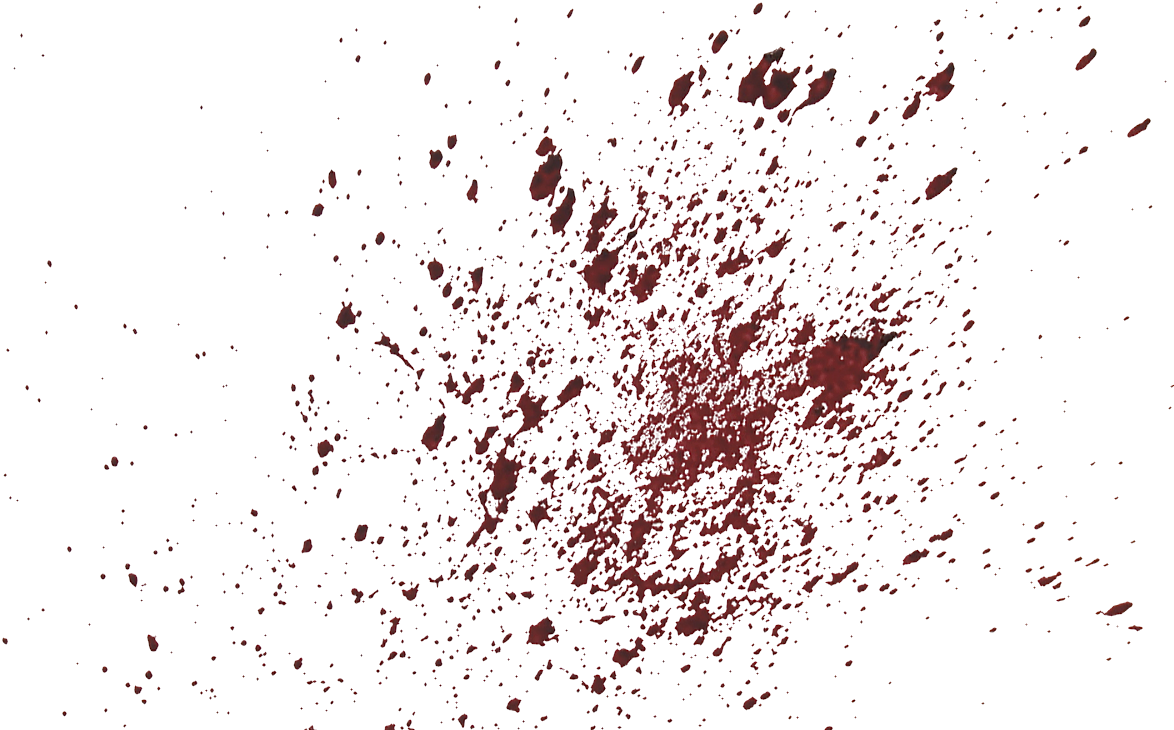
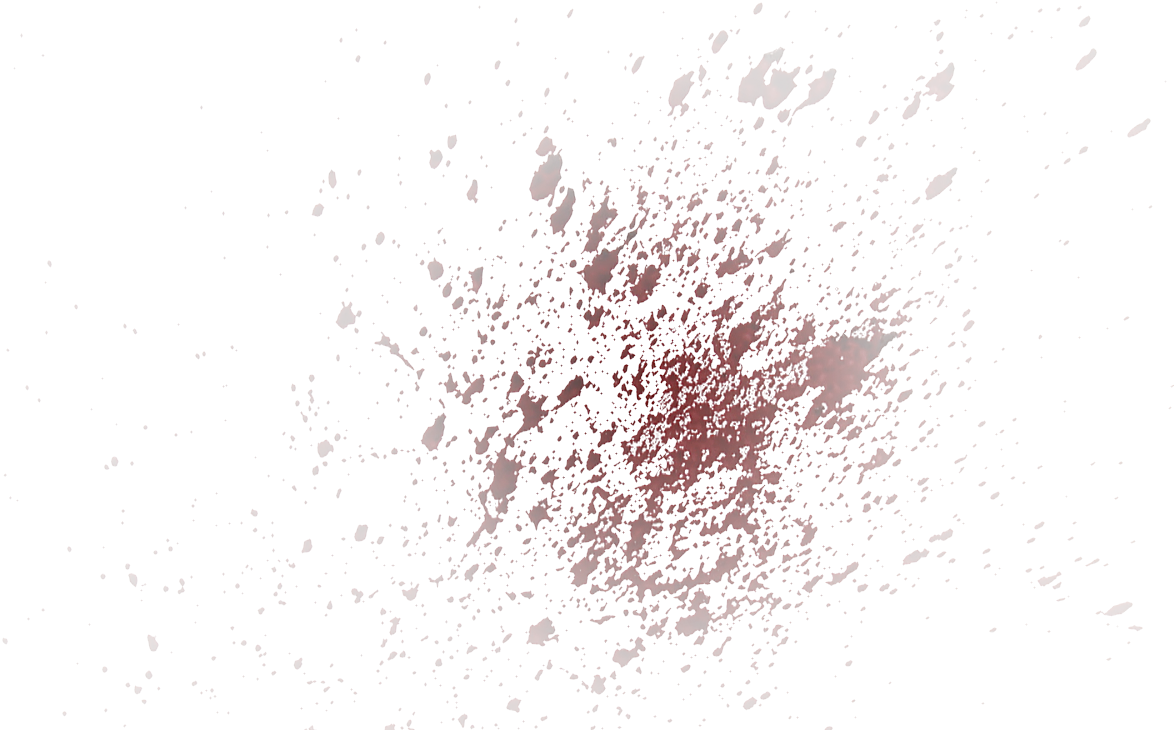
Improved 'psychopathic' fanfics effects to be nicer on any device

diff --git a/src/components/effects/psychopathic-items/EffectBloodSplatter.vue b/src/components/effects/psychopathic-items/EffectBloodSplatter.vue
@@ -16,12 +16,6 @@ const imageUrl = ref(
   new URL("@/assets/images/psychopathic/blood.png", import.meta.url).href
 );
 
-const generateRandomNumber = (min: number, max: number) =>
-  Math.random() * (max - min) + min;
-
-const generateRandomIntNumber = (min: number, max: number) =>
-  Math.floor(generateRandomNumber(min, max + 1));
-
 const generateKeyframes = (animationName: string, isReversed: boolean) => {
   const keyframes = `
         @keyframes ${animationName} {
@@ -53,10 +47,9 @@ let leftSplatterStyleElement: HTMLStyleElement | null;
 let rightSplatterStyleElement: HTMLStyleElement | null;
 
 const leftSplatterStyles = computed(() => {
-  const bottomOffset =
-    footerStore.footerHeight + generateRandomIntNumber(0, 20);
+  const bottomOffset = footerStore.footerHeight;
 
-  const animationDelay = generateRandomNumber(50, 54);
+  const animationDelay = 50.5;
   const animationName = `blood-splatter-fade-${Math.random().toString(36).substring(2, 15)}`;
 
   if (leftSplatterStyleElement) {
@@ -74,10 +67,9 @@ const leftSplatterStyles = computed(() => {
 });
 
 const rightSplatterStyles = computed(() => {
-  const bottomOffset =
-    footerStore.footerHeight + generateRandomIntNumber(0, 20);
+  const bottomOffset = footerStore.footerHeight;
 
-  const animationDelay = generateRandomNumber(56, 60);
+  const animationDelay = 58;
   const animationName = `blood-splatter-fade-reverse-${Math.random().toString(36).substring(2, 15)}`;
 
   if (rightSplatterStyleElement) {
@@ -109,12 +101,12 @@ onUnmounted(() => {
 .blood-splatter {
   position: fixed;
   z-index: 2;
-  width: 50%;
-  height: 50%;
+  width: 70%;
+  height: 70%;
   pointer-events: none;
   background-repeat: no-repeat;
   background-position: center;
-  background-size: auto;
+  background-size: cover;
   opacity: 0;
   &_left {
     left: 0;

diff --git a/src/components/PatchNotes.vue b/src/components/PatchNotes.vue
@@ -1,6 +1,23 @@
 <template>
   <ul class="patch-notes">
     <li class="patch-notes__patch-wrapper">
+      <h3 class="patch-notes__patch-version">Версия 2.0.1</h3>
+      <ol class="patch_notes__patch-features-wrapper">
+        <li class="patch_notes__patch-feature">
+          Увеличена прозрачность спрайтов по краям для эффектов 'pscyhopathic'
+          фанфиков
+        </li>
+        <li class="patch_notes__patch-feature">
+          Слегка увеличен размер спрайтов по краям для эффектов 'pscyhopathic'
+          фанфиков, а также синхронизирована частота их появления слева и справа
+        </li>
+        <li class="patch_notes__patch-feature">
+          Изменено заполнение ищображения Рими в эффектах для 'psychopathic'
+          фанфиков, чтобы оно умещалось в экран любого устройства
+        </li>
+      </ol>
+    </li>
+    <li class="patch-notes__patch-wrapper">
       <h3 class="patch-notes__patch-version">Версия 2.0.0</h3>
       <ol class="patch_notes__patch-features-wrapper">
         <li class="patch_notes__patch-feature">

diff --git a/src/App.vue b/src/App.vue
@@ -7,7 +7,7 @@
     @closeModal="closeNewPatchModal"
   >
     <p class="new-patch-label">
-      Вышла новая версия веб-приложения для фанфиков - 2.0.0! Вы можете
+      Вышла новая версия веб-приложения для фанфиков - 2.0.1! Вы можете
       взглянуть на полный список изменений по кнопке `Последние обновления`,
       находящейся в бургер-меню. Это окно больше не будет показываться, пока не
       выйдет новый патч или пока вы не почистите кэш браузера.
@@ -37,7 +37,7 @@ import { useFanficsStore } from "@/store/fanfics";
 import TheHeader from "@/components/TheHeader.vue";
 import TheFooter from "@/components/TheFooter.vue";
 
-const APP_VERSION = "2.0.0";
+const APP_VERSION = "2.0.1";
 
 const scrollbarPaddingStore = useScrollbarPaddingStore();
 

diff --git a/src/components/TheFooter.vue b/src/components/TheFooter.vue
@@ -1,7 +1,7 @@
 <template>
   <footer class="app-footer" ref="footerRef">
     <div class="app-footer__container">
-      <span class="app-footer__version">Версия 2.0.0</span>
+      <span class="app-footer__version">Версия 2.0.1</span>
       <div class="app-footer__git-link-wrapper">
         <a
           href="https://github.com/Shist/shist-fanfics"

diff --git a/src/components/effects/psychopathic-items/EffectBloodRimi.vue b/src/components/effects/psychopathic-items/EffectBloodRimi.vue
@@ -132,6 +132,6 @@ onUnmounted(() => {
   pointer-events: none;
   background-repeat: no-repeat;
   background-position: 50% 100%;
-  background-size: auto;
+  background-size: contain;
 }
 </style>
